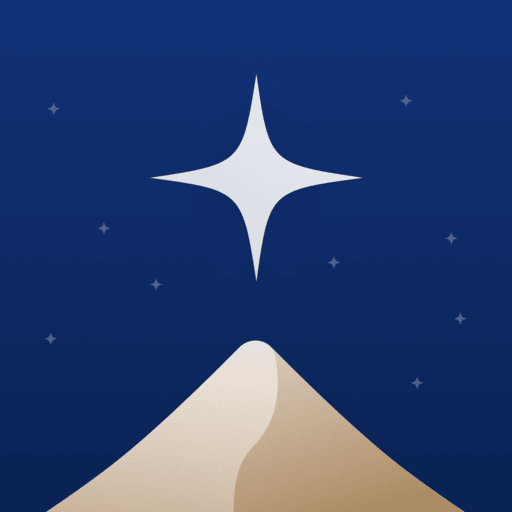
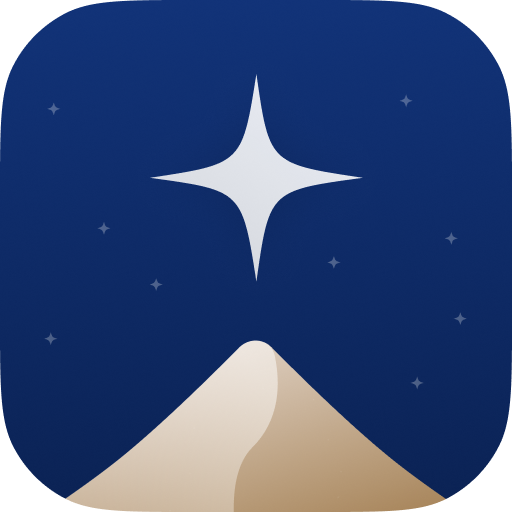
Deploy: 2025-11-09 13:44:25

diff --git a/flutter_service_worker.js b/flutter_service_worker.js
@@ -3,17 +3,18 @@ const MANIFEST = 'flutter-app-manifest';
 const TEMP = 'flutter-temp-cache';
 const CACHE_NAME = 'flutter-app-cache';
 
-const RESOURCES = {"flutter_bootstrap.js": "004c3f121e5f335192d4f8743c195a48",
+const RESOURCES = {"flutter_bootstrap.js": "84e5fcaae579b4d0d889a0711388ec76",
 "version.json": "78bb05588556bde1292494918b562cbe",
-"index.html": "13ae5566daf7282e625585524ee47d24",
-"/": "13ae5566daf7282e625585524ee47d24",
+"index.html": "1eda7627c7c2c0d0d3642cf3de63961a",
+"/": "1eda7627c7c2c0d0d3642cf3de63961a",
+"oglink.png": "23cfc5189e738b245f08515f80a22e34",
 "main.dart.js": "7c9ee98bc5389ed879ac883ad7732c34",
 "flutter.js": "888483df48293866f9f41d3d9274a779",
-"favicon.png": "f75131be7a534bf186783cec23c13a00",
-"icons/Icon-192.png": "f75131be7a534bf186783cec23c13a00",
-"icons/Icon-maskable-192.png": "f75131be7a534bf186783cec23c13a00",
-"icons/Icon-maskable-512.png": "c1d5b806a1ea66cc01d7ad1e4a30b598",
-"icons/Icon-512.png": "c1d5b806a1ea66cc01d7ad1e4a30b598",
+"favicon.png": "f0896f2cdb2b66048c050a3596035152",
+"icons/Icon-192.png": "f0896f2cdb2b66048c050a3596035152",
+"icons/Icon-maskable-192.png": "f0896f2cdb2b66048c050a3596035152",
+"icons/Icon-maskable-512.png": "fcea3cd3ff75a7199a16fbae57a3a979",
+"icons/Icon-512.png": "fcea3cd3ff75a7199a16fbae57a3a979",
 "manifest.json": "4526fbf96c6c8a10de489b56f44b0ba5",
 "assets/AssetManifest.json": "f8d5f3f7ded92357a00c1866748ef699",
 "assets/NOTICES": "0133dee9ad3e9ddca2fb50c2cb362bf3",

diff --git a/flutter_bootstrap.js b/flutter_bootstrap.js
@@ -38,6 +38,6 @@ _flutter.buildConfig = {"engineRevision":"d2913632a4578ee4d0b8b1c4a69888c8a0672c
 
 _flutter.loader.load({
   serviceWorkerSettings: {
-    serviceWorkerVersion: "4041806930"
+    serviceWorkerVersion: "785631159"
   }
 });

diff --git a/index.html b/index.html
@@ -33,6 +33,8 @@
   <!-- Favicon -->
   <link rel="icon" type="image/png" href="favicon.png" />
 
+  <meta property="og:image" content="oglink.png">
+
   <title>YouR Star</title>
   <link rel="manifest" href="manifest.json">
 </head>
